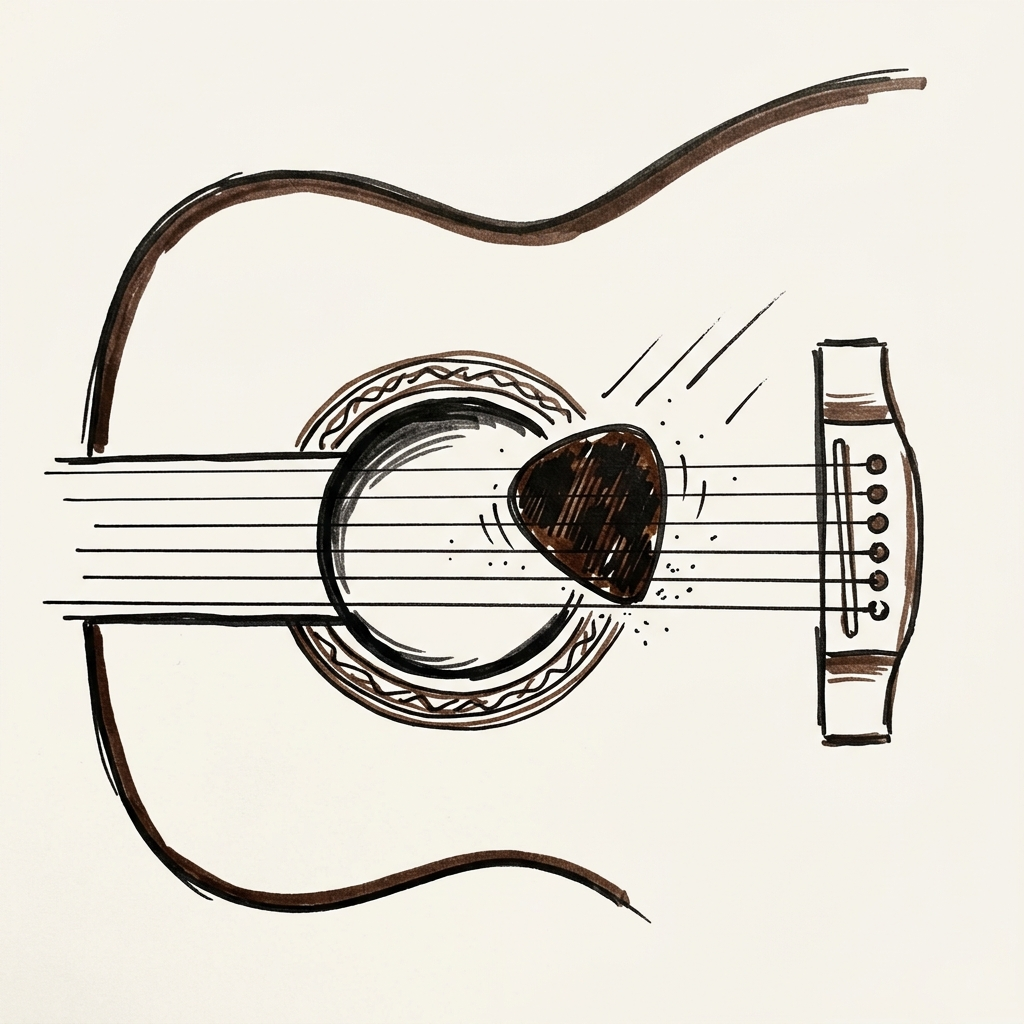
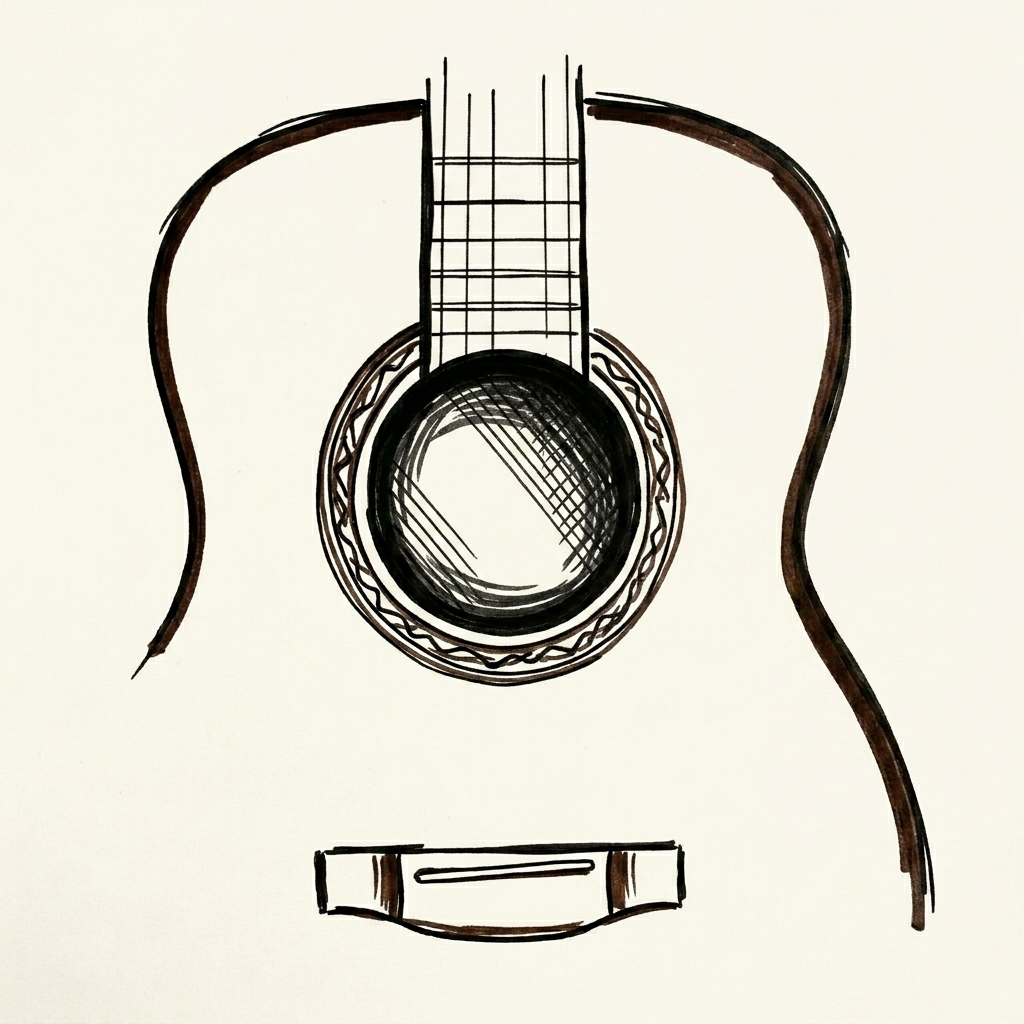
"guitar"

Changed region(s): [[0.0312, 0.0625, 0.9375, 0.9375], [0.7188, 0.375, 0.75, 0.4062]]

diff --git a/index.html b/index.html
@@ -14,18 +14,19 @@
       <feTurbulence type="fractalNoise" baseFrequency="0.04" numOctaves="3" result="noise" />
       <feDisplacementMap in="SourceGraphic" in2="noise" scale="2.8" xChannelSelector="R" yChannelSelector="G" />
     </filter>
+    <radialGradient id="feather-gradient" cx="50%" cy="50%" r="50%">
+      <stop offset="50%" stop-color="white" stop-opacity="1" />
+      <stop offset="96%" stop-color="white" stop-opacity="0" />
+    </radialGradient>
+    <mask id="feather-mask">
+      <rect x="0" y="0" width="400" height="400" fill="black" />
+      <circle cx="200" cy="200" r="200" fill="url(#feather-gradient)" />
+    </mask>
   </defs>
 
-  <!-- Acoustic Guitar Rosetta (Static background, large radius, handdrawn filter applied) -->
-  <g class="rosetta" filter="url(#handdrawn)">
-    <circle cx="200" cy="200" r="50" fill="none" stroke="#2a2722" stroke-width="4.5" />
-    <circle cx="200" cy="200" r="56" fill="none" stroke="#8b8070" stroke-width="1.5" stroke-dasharray="3 3" />
-    <circle cx="200" cy="200" r="62" fill="none" stroke="#2a2722" stroke-width="3" />
-    <circle cx="200" cy="200" r="68" fill="none" stroke="#8b8070" stroke-width="4" stroke-dasharray="8 4" />
-    <circle cx="200" cy="200" r="74" fill="none" stroke="#2a2722" stroke-width="1.5" />
-    <circle cx="200" cy="200" r="80" fill="none" stroke="#8b8070" stroke-width="2.5" stroke-dasharray="2 6" />
-    <circle cx="200" cy="200" r="86" fill="none" stroke="#2a2722" stroke-width="1" />
-  </g>
+  <g mask="url(#feather-mask)">
+    <!-- Acoustic Guitar Image background layer -->
+    <image href="guitar_strum.jpg" x="0" y="0" width="400" height="400" preserveAspectRatio="xMidYMid slice" opacity="0.9" />
 
   <!-- Strings on the neck -->
   <g class="strings">
@@ -63,6 +64,7 @@
     
     <circle cx="230" cy="358" r="3.5" fill="#eae5d9" stroke="#3d372e" stroke-width="1" />
     <circle cx="230" cy="358" r="1" fill="#3d372e" />
+  </g>
   </g>
 </svg>
 <div id="stage"></div>

diff --git a/style.css b/style.css
@@ -54,9 +54,9 @@ body.playing #guitar-illustration .string-6 { animation-delay: 0.10s; }
   max-width:80vw;
   will-change:transform,opacity,filter;
 }
-.line.v { font-size:clamp(32px,6.0vw,78px); font-weight:400; }
+.line.v { font-size:clamp(35px,6.7vw,88px); font-weight:400; }
 .line.c { font-size:clamp(39px,7.4vw,99px); font-weight:600; }
-.line.b { font-size:clamp(30px,5.3vw,67px); font-weight:300; font-style:italic; color:#4a4640; }
+.line.b { font-size:clamp(31px,5.8vw,78px); font-weight:300; font-style:italic; color:#4a4640; }
 .word {
   display:inline-block;
   opacity:0;